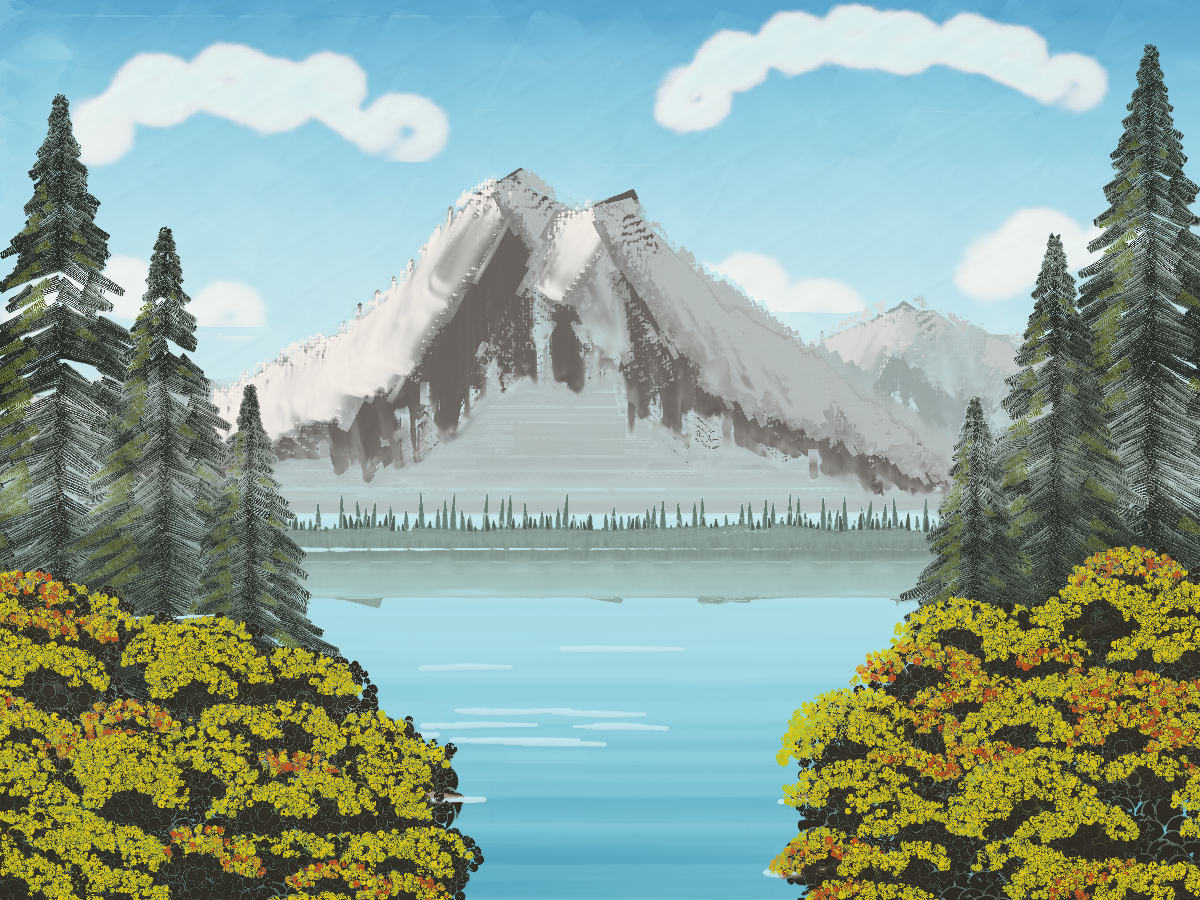
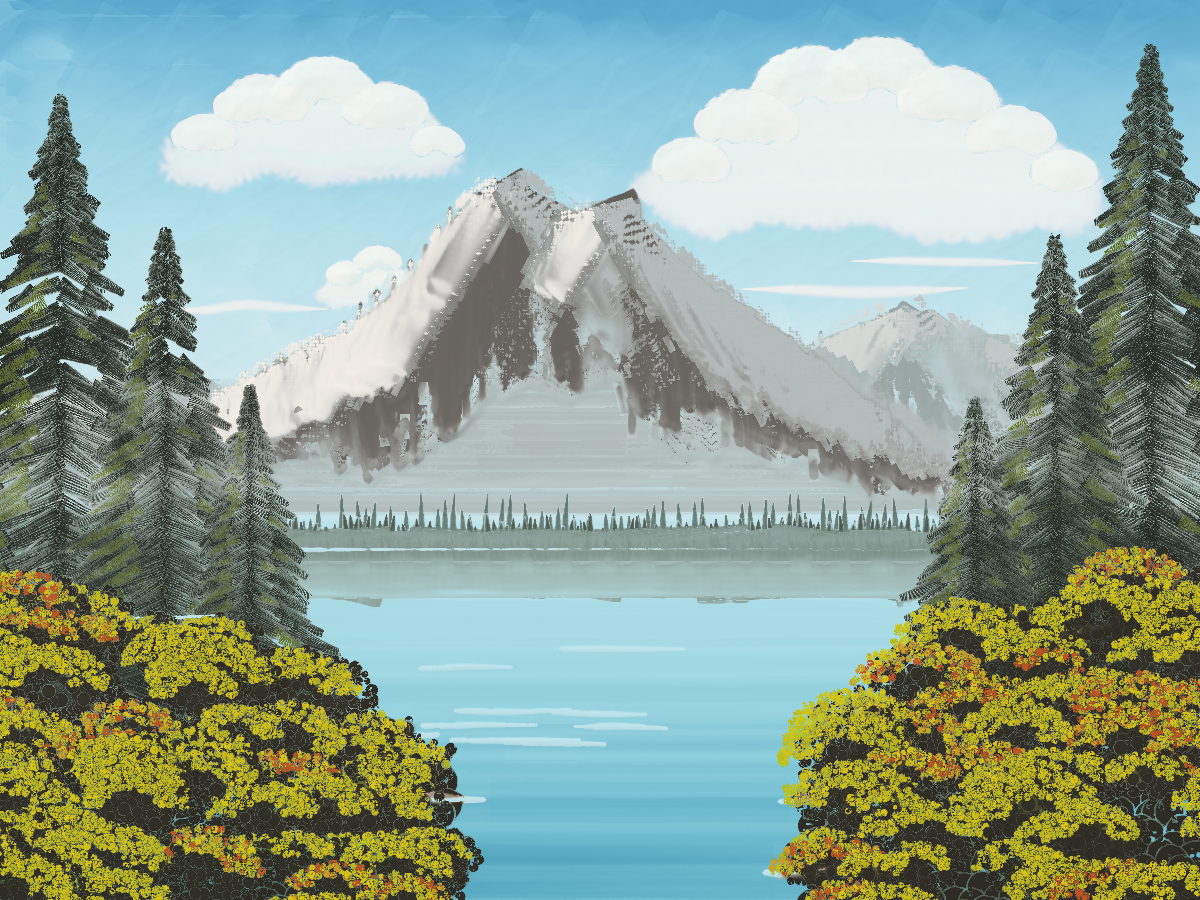
Bob Ross: redraw the clouds as heaped cumulus
The old clouds were one looping stroke each: even-thickness ribbons with
curled ends, the same top and bottom, all one size. Now each cloud is a
heap of overlapping puffs on a flat base:

- the wet blue is lifted where the puffs go, with a clean brush;
- the white is scrubbed in small circles in one long stroke, top down,
  so it stays white above and turns a soft blue-grey towards a ragged
  base that melts into the sky;
- each puff's sunlit top is filled with clean white, back puffs first.

One big cumulus, a medium and a small cloud, and thin streaks low in
the sky. Script only; the engine is unchanged.

Claude-Session: https://claude.ai/code/session_01EHReofpAhaQxxUm8vHfAMo

diff --git a/examples/huile/bob_ross_style.py b/examples/huile/bob_ross_style.py
@@ -5,8 +5,9 @@ one sitting, everything wet:
 
 * the canvas coated with a thin film of Liquid White, so every colour after
   it blends softly;
-* the sky in criss-cross strokes with a two-inch brush, clouds scrubbed in
-  with little circles and blended soft;
+* the sky in criss-cross strokes with a two-inch brush; clouds scrubbed in
+  with little circles, their puffs bright on top, their bases melting into
+  the blue;
 * the mountain cut in with the palette knife, its snow laid on with almost
   no pressure so it breaks over the dark paint, and mist tapped in at its base;
 * distant trees tapped in with a fan brush, evergreens built from the top
@@ -191,37 +192,133 @@ def paint_sky():
         st([(-80, y), (W / 2, y), (W + 80, y)], None, brush=Brush(BLENDER), pressure=0.12)
 
 
-def cloud(cx, cy, w, h, seed):
-    """A cumulus, the way he scrubs them in: lots of white worked in little
-    circles with a soft brush, puff after puff along a bumpy top, then the
-    bottom blended away into the sky with the soft blender, barely touching."""
+def cloud_top(puffs, base):
+    """The top edge of a cloud: round puffs (x, y, radius) heaped on a flat base."""
+    def top(x):
+        x = np.asarray(x, float)
+        t = np.full(x.shape, np.inf)
+        for px, py, pr in puffs:
+            d = pr ** 2 - (x - px) ** 2
+            t = np.where(d > 0, np.minimum(t, py - np.sqrt(np.clip(d, 0, None))), t)
+        return t
+    return top
+
+
+def scrub_path(a, b, rr, advance, r):
+    """Little scrubbing circles of radius ``rr``, travelling from a to b."""
+    a, b = np.asarray(a, float), np.asarray(b, float)
+    ln = np.linalg.norm(b - a)
+    n = max(1, int(ln / advance))
+    t = np.linspace(0, 2 * np.pi * n, 7 * n + 1)
+    phase = r.uniform(0, 2 * np.pi)
+    c = a + (b - a) * (t / t[-1])[:, None]
+    return c + np.stack([rr * np.cos(t + phase), rr * 0.8 * np.sin(t + phase)], 1)
+
+
+def scrub_rows(top, x0, x1, y_from, y_to, size, r, inset=0.48, ragged=0.0, base=None):
+    """Scrub the inside of a cloud row after row, from ``y_from`` to ``y_to``,
+    back and forth. ``ragged`` wobbles the rows near the base so it isn't ruled."""
+    xs = np.arange(x0, x1, 2.0)
+    step = size * 0.45
+    pts, flip = [], False
+    for y in np.arange(y_from, y_to, step if y_to > y_from else -step):
+        y += r.normal(0, step * 0.1)
+        inside = top(xs) + size * inset <= y
+        if not inside.any():
+            continue
+        edges = np.flatnonzero(np.diff(np.r_[0, inside.astype(int), 0]))
+        runs = [(xs[s] + size * inset * 0.3, xs[e - 1] - size * inset * 0.3) for s, e in zip(edges[::2], edges[1::2])]
+        if flip:
+            runs = [(b, a) for a, b in runs[::-1]]
+        wob = ragged * size * np.clip(1 - (base - y) / size, 0, 1) if base is not None else 0.0
+        for a, b in runs:
+            knots = np.linspace(a, b, max(2, int(abs(b - a) / size) + 1))
+            ys = y + r.normal(0, wob + 1e-9, len(knots))
+            for k in range(len(knots) - 1):
+                pts.extend(scrub_path((knots[k], ys[k]), (knots[k + 1], ys[k + 1]), size * 0.2, size * 0.35, r))
+        flip = not flip
+    return np.array(pts)
+
+
+def path_length(pts):
+    return float(np.linalg.norm(np.diff(pts, axis=0), axis=1).sum())
+
+
+def cloud(puffs, base, size=50, seed=0):
+    """A cumulus, the way he builds one: puffs of clean white with bright tops,
+    heaped on a flat base that melts into the sky.
+
+    Wet-on-wet, white scrubbed into the blue turns blue. So first he lifts
+    some of the wet blue where the bright puffs will go, with a clean brush
+    (wiped after every few circles). Then the white is scrubbed in with little
+    circles in one long go, top down: where the blue was lifted it stays white;
+    lower down, pressed a little harder into the blue, it turns a soft blue-grey
+    and the base dissolves. Last, each puff's sunlit top is laid in with clean
+    white, the ones at the back first, so each puff in front stands out
+    against the shadowed underside of the one behind it."""
     r = np.random.default_rng(seed)
-    white = thin(TITANIUM_WHITE)
-    # one continuous scrubbing stroke looping along the cloud: a little circle
-    # for each puff of its bumpy top, so the puffs run into one another
-    n = max(3, int(w / 55))
-    pts = []
-    for k in range(n):
-        t = (k + 0.5) / n
-        px = cx - w / 2 + t * w + r.normal(0, 8)
-        rad = w / n * r.uniform(0.6, 0.9)
-        top = cy - h * (0.25 + 0.75 * np.sin(np.pi * t) ** 0.7) * r.uniform(0.8, 1.0)
-        q = (px, top + rad * 0.55)
-        for a in np.linspace(np.pi, 3 * np.pi, 9)[:-1]:
-            pts.append((q[0] + rad * 0.5 * np.cos(a), q[1] + rad * 0.35 * np.sin(a)))
-    b = loaded(CLOUD_BRUSH.sized(w / n * 1.1), white, 2.2 * n)
-    st(pts, None, brush=b, pressure=0.35, pickup=0.05)
-    # blend the base away: barely touching, side to side
-    for y in np.arange(cy + h * 0.15, cy + h * 0.6, 14):
-        st([(cx - w * 0.6, y), (cx, y + r.normal(0, 3)), (cx + w * 0.6, y)], None, brush=Brush(BLENDER),
-           pressure=[0.0, 0.06, 0.0])
+    top = cloud_top(puffs, base)
+    x0 = min(px - pr for px, py, pr in puffs) - 10
+    x1 = max(px + pr for px, py, pr in puffs) + 10
+    y_top = min(py - pr for px, py, pr in puffs)
+    lift_to = max(py for px, py, pr in puffs) + size * 0.3          # just below the lowest puff's middle
+    # lift the blue: three passes, a clean brush every few circles
+    for _ in range(3):
+        path = scrub_rows(top, x0, x1, y_top, lift_to, size * 0.89, r, inset=0.34)
+        for chunk in np.array_split(path, max(1, len(path) // 21)):
+            if len(chunk) > 2:
+                st(chunk, None, brush=Brush(CLOUD_BRUSH.sized(size * 0.8)), pressure=0.9, pickup=1.0)
+    # the body: one long scrub from the top down. (One stroke, so the brush works
+    # into its own wet white; a new stroke over it would leave a seam at its soft edge.)
+    path = scrub_rows(top, x0, x1, y_top + size * 0.3, base - size * 0.2, size, r, ragged=0.25, base=base)
+    below = np.clip((path[:, 1] - lift_to) / (base - lift_to), 0, 1)
+    pressure = (0.35 + 0.25 * below ** 1.5) * (1 + 0.1 * np.sin(np.arange(len(path)) * 2 * np.pi / 14))
+    total = 0.3 * path_length(path) / size
+    b = Brush(CLOUD_BRUSH.sized(size)).load(thin(TITANIUM_WHITE), min(total, 12))
+    if total > 12:      # more than the hair holds: the rest is worked up into the heel
+        b.load(thin(TITANIUM_WHITE), total - 12, depth="heel")     # (pressing squeezes it out as he goes)
+    st(path, None, brush=b, pressure=list(pressure), pickup=0.05)
+    # the sunlit tops: each puff filled from its rim inwards with clean white,
+    # with a firmer brush, so the tops stay crisp; the puffs at the back first
+    w = size * 0.6
+    for px, py, pr in sorted(puffs, key=lambda q: q[1]):
+        path = []
+        for k, R in enumerate(np.arange(pr - w * 0.45, pr * 0.35, -w * 0.35)):
+            span = 0.8 * np.sqrt(R / pr)
+            angles = np.linspace(np.pi * (1.5 - span / 2), np.pi * (1.5 + span / 2), 7)[::1 if k % 2 == 0 else -1]
+            arc = [(px + R * np.cos(a), py + R * np.sin(a)) for a in angles]
+            for p, q in zip(arc[:-1], arc[1:]):
+                path.extend(scrub_path(p, q, w * 0.15, w * 0.3, r))
+        path = np.array(path)
+        b = loaded(CLOUD_BRUSH.sized(w).with_(softness=0.1), thin(TITANIUM_WHITE), 1.6 * path_length(path) / w)
+        st(path, None, brush=b, pressure=0.3, pickup=0.03)
+
+
+def wisp(x0, x1, y, width, seed=0):
+    """A thin streak of cloud, low in the sky: a little white on a very soft
+    brush, pulled across barely touching, lowered in and lifted off at the ends."""
+    r = np.random.default_rng(seed)
+    path = np.stack([np.linspace(x0, x1, 5), y + r.normal(0, width * 0.03, 5)], 1)
+    b = loaded(CLOUD_BRUSH.sized(width).with_(softness=0.95), thin(TITANIUM_WHITE), 0.25 * path_length(path) / width)
+    st(path, None, brush=b, pressure=lambda u: 0.15 * np.sin(np.pi * u) ** 0.7, pickup=0.15, taper=0.3)
+
+
+# puffs (x, y, radius) of each cloud, and its base
+BIG_CLOUD = ([(690, 182, 44), (748, 146, 56), (812, 112, 64), (880, 100, 62), (948, 126, 58), (1012, 156, 50),
+              (1064, 188, 38)], 228)
+LEFT_CLOUD = ([(205, 152, 38), (262, 126, 50), (325, 112, 54), (388, 130, 46), (436, 156, 30)], 186)
+SMALL_CLOUD = ([(345, 284, 22), (378, 274, 28), (412, 288, 18)], 302)
 
 
 def paint_clouds():
     stage("clouds")
-    for k, (cx, cy, w, h) in enumerate([(250, 160, 380, 120), (880, 120, 440, 120), (1090, 290, 260, 80),
-                                        (110, 330, 240, 70), (720, 320, 260, 60)]):
-        cloud(cx, cy, w, h, seed=k)
+    cloud(*BIG_CLOUD, size=50, seed=1)
+    cloud(*LEFT_CLOUD, size=42, seed=2)
+    cloud(*SMALL_CLOUD, size=28, seed=3)
+    # and a few thin streaks low in the sky, just above the far mountains
+    wisp(740, 970, 290, 46, seed=4)
+    wisp(850, 1040, 262, 34, seed=5)
+    wisp(160, 330, 308, 40, seed=6)
 
 
 # ===========================================================================
